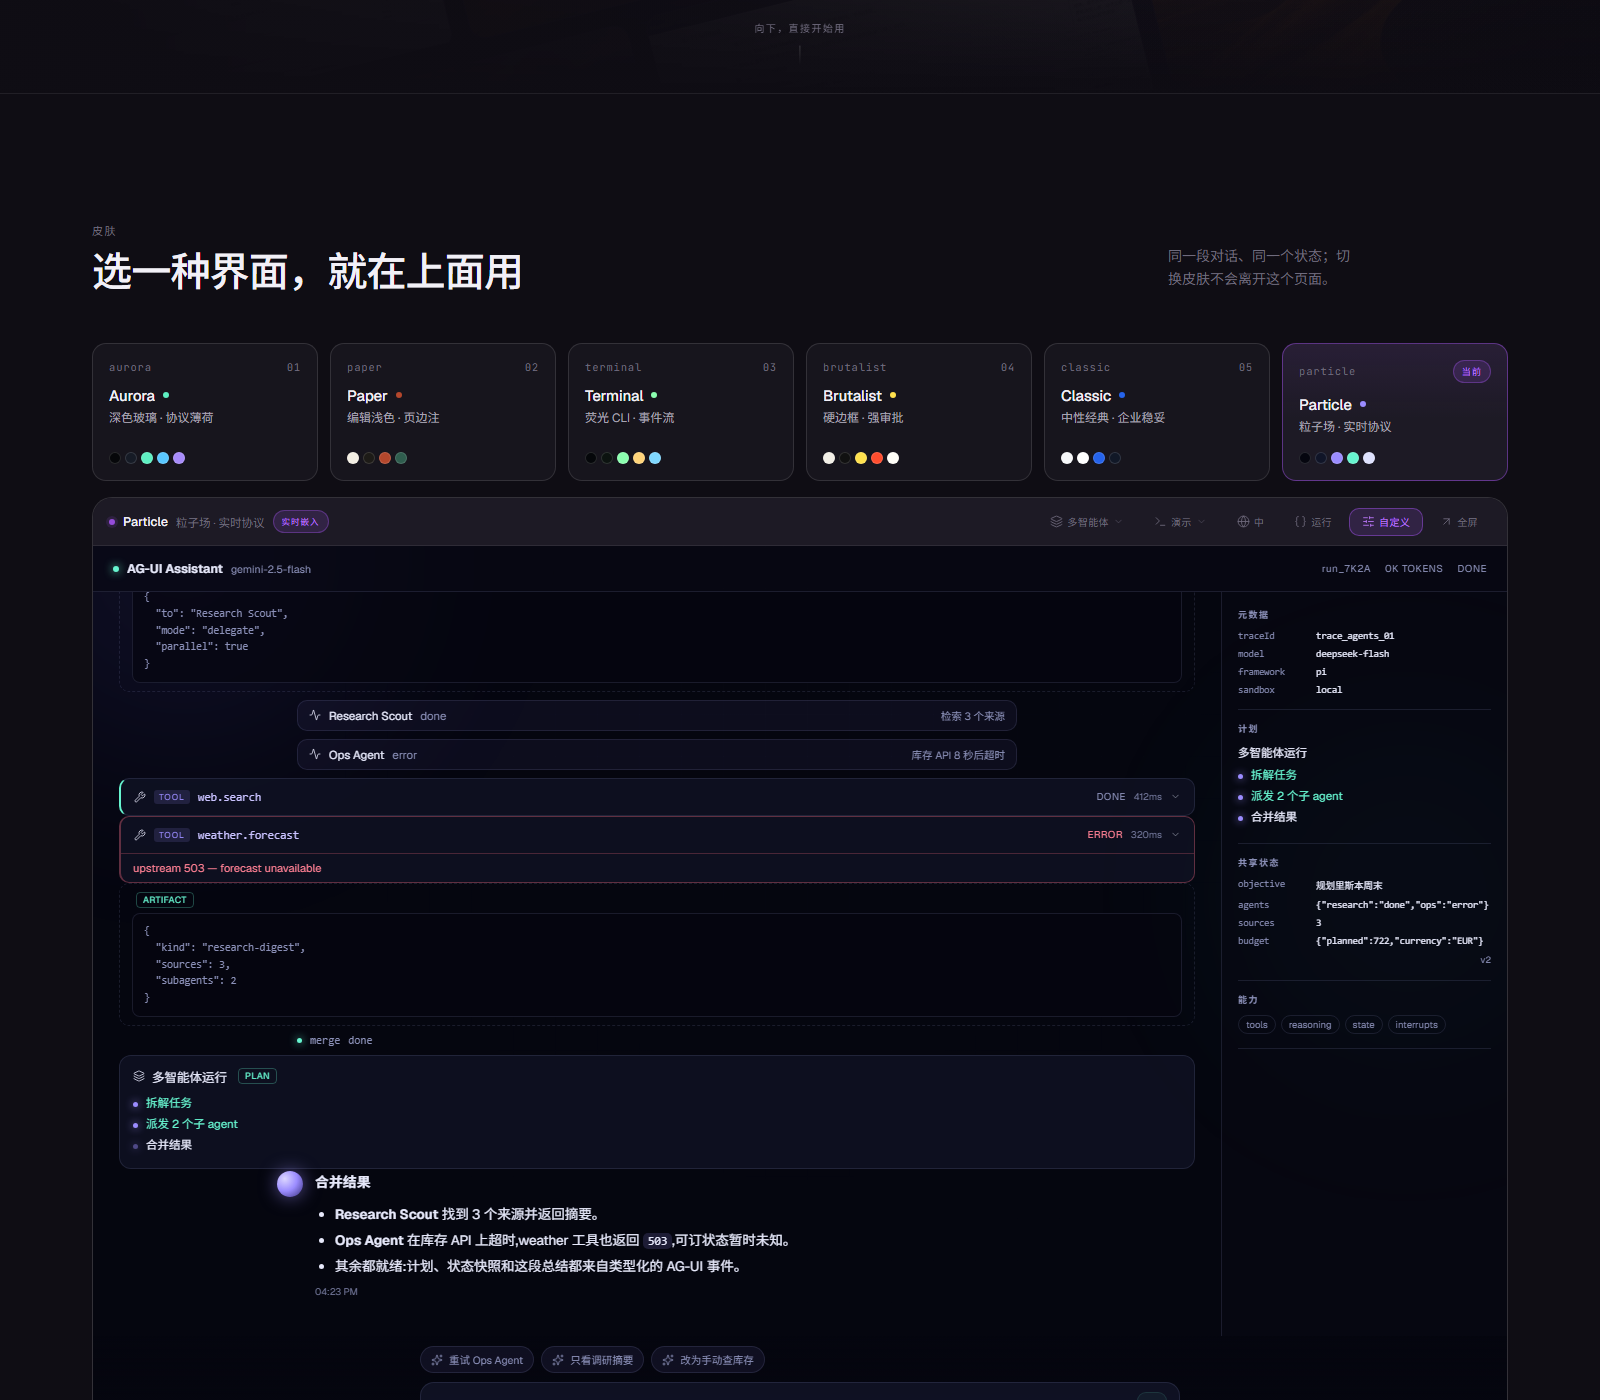
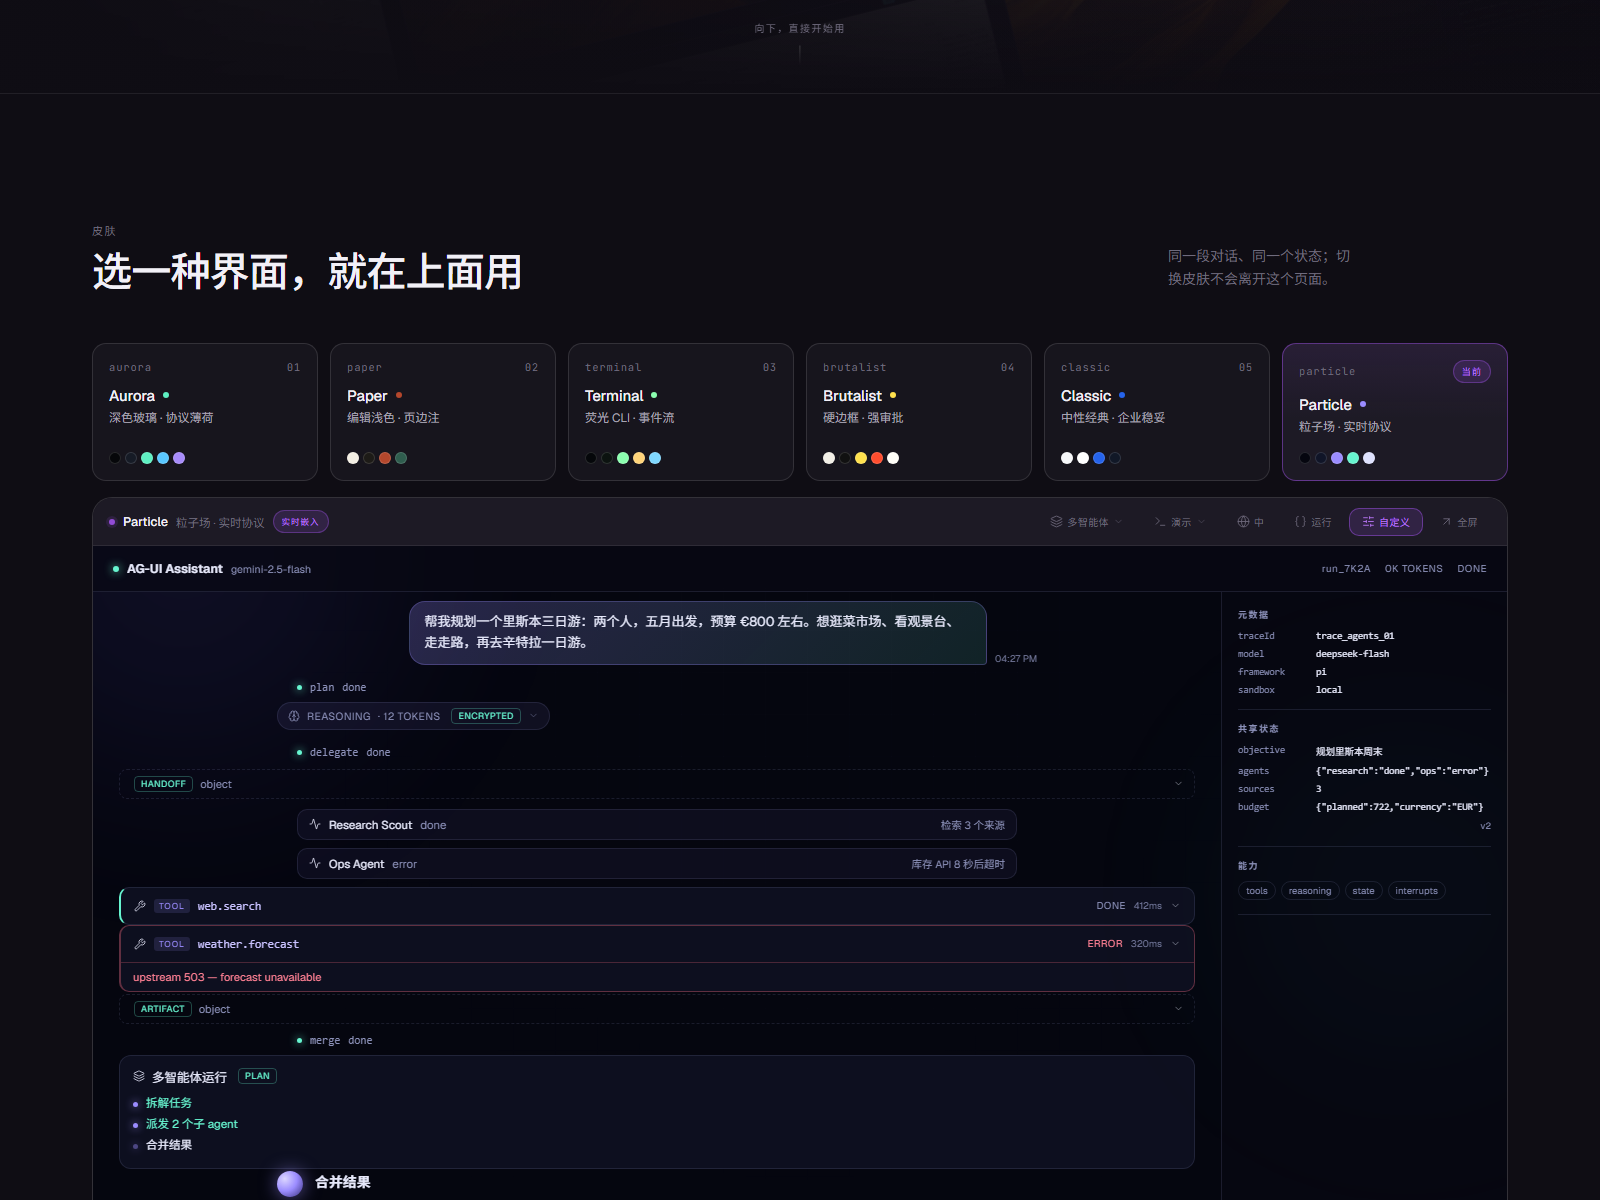
polish(particle): collapse unknown CUSTOM payloads, add tool arg briefs, drop duplicate plan aside
- custom ARTIFACT/HANDOFF payloads become a one-line summary with expandable JSON
- collapsed tool cards show a compact key=value argument brief, so a tool event
  still communicates what it did without expanding
- remove the aside plan section (the transcript already renders the plan card)
- refresh the Particle screenshot in README

diff --git a/packages/agui-skins/src/skins/particle/index.tsx b/packages/agui-skins/src/skins/particle/index.tsx
@@ -45,7 +45,6 @@ export function ParticlePage() {
   const running = c.status === "running";
   const stateEntries = entriesOf(c.sharedState);
   const metadata = entriesOf(c.metadata ?? {});
-  const plans = c.entries.filter((entry): entry is PlanEntry => entry.kind === "plan");
 
   function send() {
     const text = draft.trim();
@@ -128,32 +127,6 @@ export function ParticlePage() {
                     </div>
                   ))}
                 </dl>
-              </section>
-            )}
-
-            {!!plans.length && (
-              <section className="pt-panel">
-                <h3>{zh ? "计划" : "Plan"}</h3>
-                {plans.map((plan) => {
-                  const view = planView(plan);
-                  return (
-                    <div key={plan.id} className="pt-plan">
-                      <p className="pt-plan-title">{displayText(plan.title)}</p>
-                      {view.rawOnly ? (
-                        <pre className="pt-pre">{planRawText(view)}</pre>
-                      ) : (
-                        <ol>
-                          {view.steps.map((step) => (
-                            <li key={step.id} data-state={step.state}>
-                              <span className="pt-step-dot" />
-                              {step.label}
-                            </li>
-                          ))}
-                        </ol>
-                      )}
-                    </div>
-                  );
-                })}
               </section>
             )}
 
@@ -353,6 +326,15 @@ function ToolRow({
   zh: boolean;
 }) {
   const open = openTools[entry.id] ?? false;
+  const brief = (() => {
+    const args = entry.args;
+    if (!args || typeof args !== "object" || Array.isArray(args)) return "";
+    return Object.entries(args as Record<string, unknown>)
+      .filter(([, value]) => ["string", "number", "boolean"].includes(typeof value))
+      .slice(0, 2)
+      .map(([key, value]) => `${key}=${String(value).slice(0, 28)}`)
+      .join(" · ");
+  })();
   const status =
     entry.status === "done" ? "done" : entry.status === "error" ? "error" : entry.status === "interrupted" ? "paused" : "running";
   return (
@@ -361,6 +343,7 @@ function ToolRow({
         <Icon name="wrench" size={12} />
         <span className="pt-tool-kicker">tool</span>
         <span className="pt-tool-name">{displayText(entry.name)}</span>
+        {brief && <span className="pt-tool-brief">{brief}</span>}
         <span className="pt-tool-status">{status}</span>
         <span className="pt-time">{entry.durationMs ? formatDuration(entry.durationMs) : ""}</span>
         <Icon name="chevron" size={11} className="pt-chev" />
@@ -427,11 +410,23 @@ function CustomRow({ entry, plugins }: { entry: CustomEntry; plugins: ReturnType
   if (entry.display === "debug") return null;
   const plugin = plugins.custom?.(entry);
   if (plugin) return <div className="pt-custom">{plugin}</div>;
+  const kind =
+    entry.value === null
+      ? "null"
+      : Array.isArray(entry.value)
+      ? `array[${entry.value.length}]`
+      : typeof entry.value === "object"
+      ? "object"
+      : typeof entry.value;
   return (
-    <div className="pt-custom">
-      <span className="pt-badge">{displayText(entry.name)}</span>
+    <details className="pt-custom">
+      <summary>
+        <span className="pt-badge">{displayText(entry.name)}</span>
+        <span className="pt-dim">{kind}</span>
+        <Icon name="chevron" size={11} className="pt-chev" />
+      </summary>
       <pre className="pt-pre">{safeJson(entry.value, 2)}</pre>
-    </div>
+    </details>
   );
 }
 

diff --git a/packages/agui-skins/src/skins/particle/particle.css b/packages/agui-skins/src/skins/particle/particle.css
@@ -119,6 +119,7 @@
 .pt-tool-head { display: flex; align-items: center; gap: 8px; width: 100%; padding: 11px 13px; border: 0; background: none; color: var(--pt-text); font: inherit; font-size: 11.5px; cursor: pointer; text-align: left; }
 .pt-tool-head:hover { background: rgba(155, 140, 255, 0.07); }
 .pt-tool-name { font-family: var(--sk-mono, ui-monospace, monospace); color: #c9c2ff; }
+.pt-tool-brief { min-width: 0; overflow: hidden; text-overflow: ellipsis; white-space: nowrap; color: var(--pt-dim); font-family: var(--sk-mono, ui-monospace, monospace); font-size: 10px; }
 .pt-tool-status { margin-left: auto; color: var(--pt-dim); font-size: 10px; letter-spacing: 0.04em; text-transform: uppercase; }
 .pt-tool[data-status="error"] { border-color: rgba(255, 107, 129, 0.35); }
 .pt-tool[data-status="error"] .pt-tool-status { color: #ff8094; }
@@ -150,8 +151,13 @@
 .pt-subagent { display: flex; align-items: center; gap: 8px; max-width: 720px; margin: 8px auto; padding: 7px 11px; border: 1px solid var(--pt-line); border-radius: 10px; background: rgba(155, 140, 255, 0.06); color: var(--pt-text); font-size: 11.5px; }
 .pt-subagent[data-status="running"] { border-color: rgba(155, 140, 255, 0.4); }
 .pt-subagent-detail { margin-left: auto; color: var(--pt-dim); font-size: 10.5px; }
-.pt-custom { padding: 8px 12px; border: 1px dashed var(--pt-line); border-radius: 10px; font-size: 11px; }
-.pt-custom .pt-pre { margin-top: 7px; }
+.pt-custom { padding: 2px 0; font-size: 11px; }
+.pt-custom > summary { display: flex; align-items: center; gap: 7px; padding: 6px 10px; border: 1px dashed var(--pt-line); border-radius: 8px; cursor: pointer; list-style: none; }
+.pt-custom > summary::-webkit-details-marker { display: none; }
+.pt-custom > summary .pt-chev { margin-left: auto; }
+.pt-custom[open] > summary { border-bottom-left-radius: 0; border-bottom-right-radius: 0; }
+.pt-custom[open] > summary .pt-chev { transform: rotate(-90deg); }
+.pt-custom .pt-pre { margin-top: 6px; }
 
 /* interrupt card */
 .pt-interrupt { border: 1px solid rgba(255, 196, 120, 0.35); border-radius: 14px; background: linear-gradient(180deg, rgba(255, 196, 120, 0.1), rgba(17, 20, 38, 0.7)); padding: 13px 14px; }
